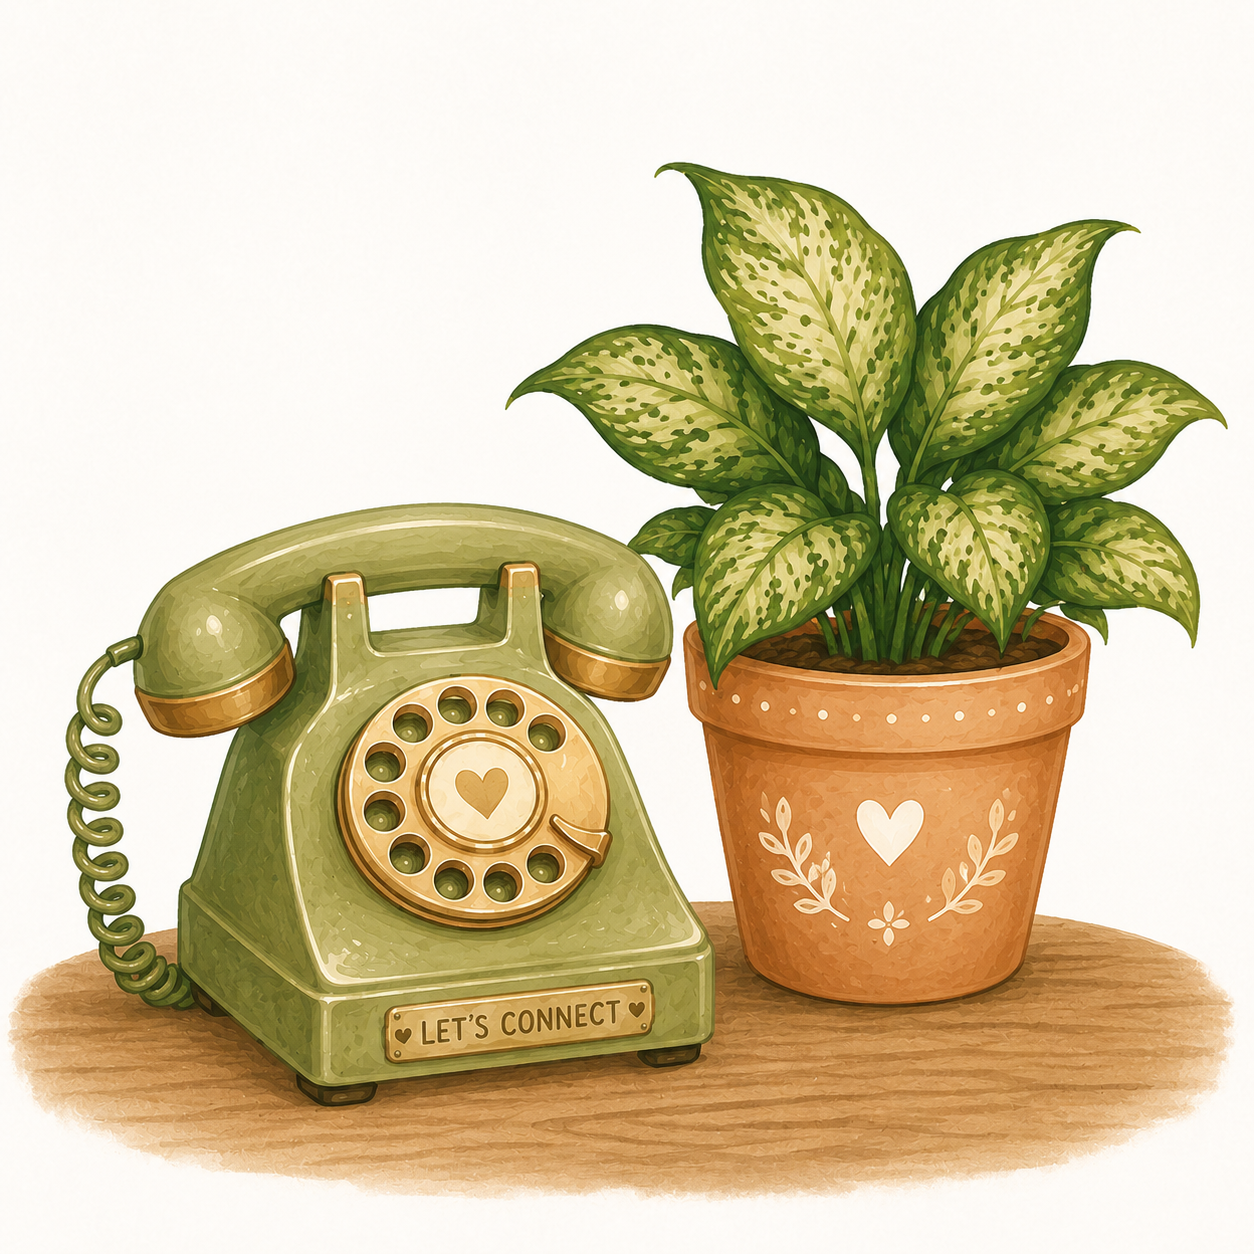
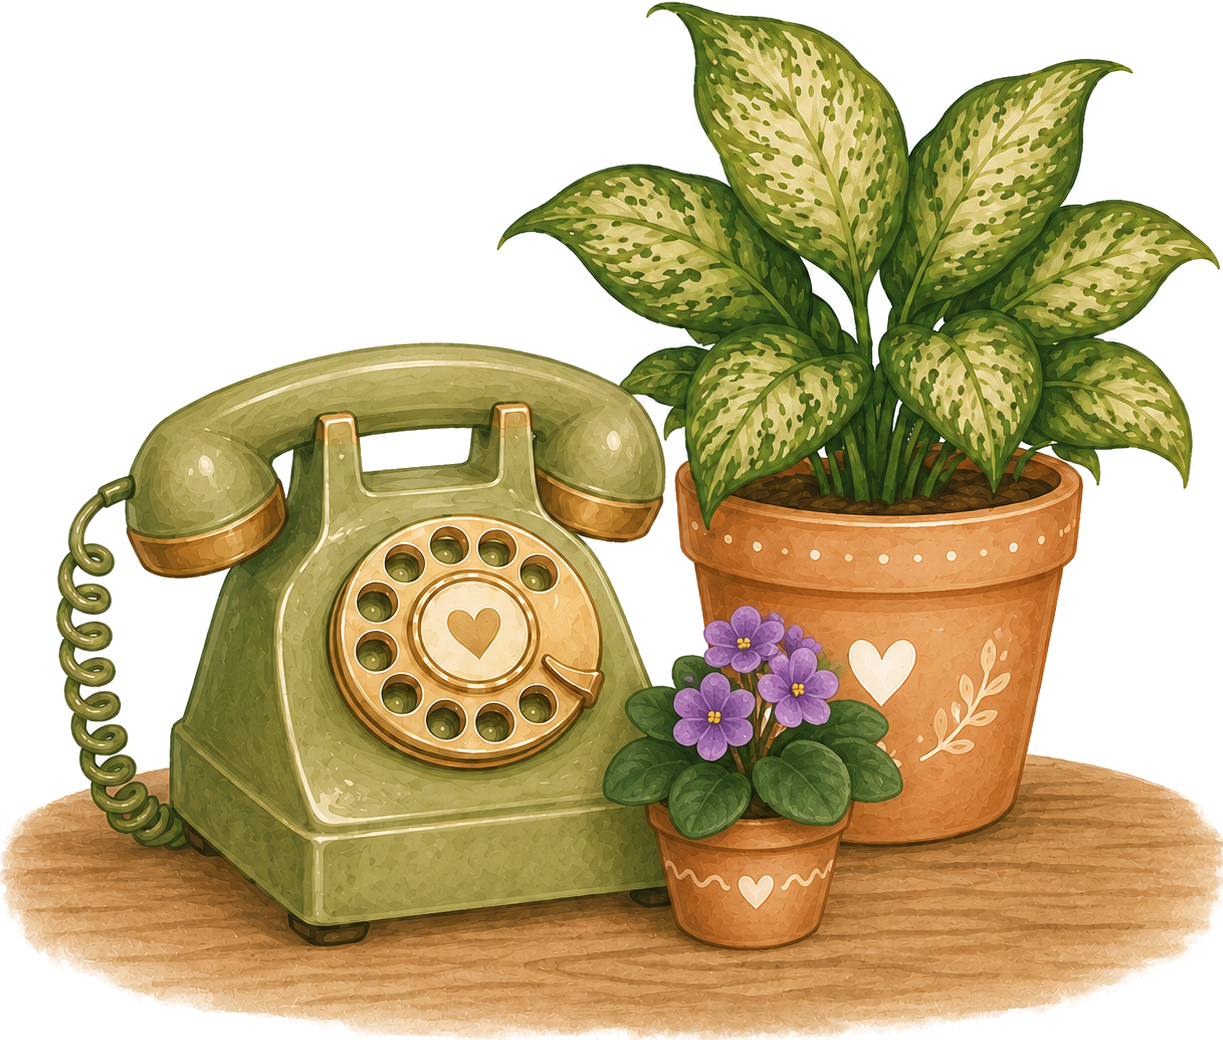
Add contact form with basic styling
- Add form with name, email, and feedback fields to Contact
- Update contact page image
- Add basic form styles

diff --git a/PlantThyme/src/components/pages/Contact.jsx b/PlantThyme/src/components/pages/Contact.jsx
@@ -1,8 +1,32 @@
+import { useState } from "react";
 import { altFromFileName } from "../../utils/altFromFileName";
 import { userName, leftDecoImagePath, rightDecoImagePath } from "../../data/constants";
 
 export default function Contact() {
     const contactImagePath = "/images/brand/contact.png";
+    const [formData, setFormData] = useState({
+        name: "",
+        email: "",
+        feedback: "",
+    });
+
+    // event.target is the DOM element that fired the event, the actual input the user typed in
+    // { name, value } is destructuring
+    // using setFormData and passing a function, passes current state as prev, using spread operator copies every key/value pair from previous state object
+    // [name]: value uses square brackets = "computed property name"
+    // it evaluates the `name` variable and uses its value as the key
+    // ie if name is "email", this becomes email: value
+    // aka take everything from the old state and overwrite the one field that changed
+    function handleChange(event) {
+        const { name, value } = event.target;
+        setFormData((prev) => ({ ...prev, [name]: value }));
+    }
+
+    function handleSubmit(event) {
+        event.preventDefault(); // stops browser from reloading the page
+        console.log("Submitting", values); // later change this to send values to backend
+    }
+
     return (
         <main id="contact">
             <img src={contactImagePath} alt={altFromFileName(contactImagePath)} className="large-page-image" />
@@ -12,7 +36,39 @@ export default function Contact() {
                 <img src={rightDecoImagePath} alt={altFromFileName(rightDecoImagePath)} className="end-deco-image" />
             </div>
             <h2>Questions or Feedback?</h2>
-            <p>Feel free to reach out with any questions or suggestions you have! I'd love to hear from you.</p>
+            <div>Feel free to reach out with any questions or suggestions you have! I'd love to hear from you.</div>
+            <div>
+                <strong>✉️ Email:</strong> [email redacted]
+            </div>
+            <div>
+                <strong>☎ Phone:</strong> [phone redacted]
+            </div>
+            <div>
+                <strong>🏠Address:</strong>
+                <br />
+                Plant Thyme
+                <br />
+                123 Greenhouse Lane
+                <br />
+                Sproutville, PA 19008
+            </div>
+            <form onSubmit={handleSubmit}>
+                <h2>Drop Us a Note!</h2>
+                <label htmlFor="name">Name:</label>
+                <input id="name" type="text" name="name" placeholder="Full Name" value={formData.name} onChange={handleChange} required />
+                <label htmlFor="email">Email:</label>
+                <input id="email" type="email" name="email" placeholder="Email" value={formData.email} onChange={handleChange} required />
+                <label htmlFor="feedback">Message:</label>
+                <textarea
+                    id="notes"
+                    name="message"
+                    placeholder="Your message here..."
+                    maxLength="500"
+                    value={formData.message}
+                    onChange={handleChange}
+                    required
+                />
+            </form>
         </main>
     );
 }

diff --git a/PlantThyme/src/App.css b/PlantThyme/src/App.css
@@ -122,3 +122,22 @@ footer {
 /* Home Page -------------------------------------------------------------------------------------------- */
 
 /* Contact Page -------------------------------------------------------------------------------------------- */
+#contact form {
+    display: flex;
+    flex-direction: column;
+    max-width: 400px;
+}
+
+#contact form label {
+    font-weight: bold;
+    text-align: left;
+}
+
+#contact form input,
+#contact form textarea {
+    width: 100%;
+    padding: 0.5rem;
+    margin-bottom: 0.75rem;
+    border: 1px solid black;
+    border-radius: 5px;
+}